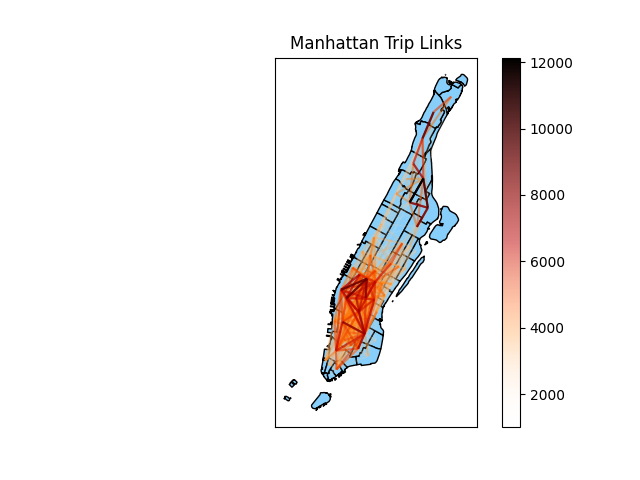
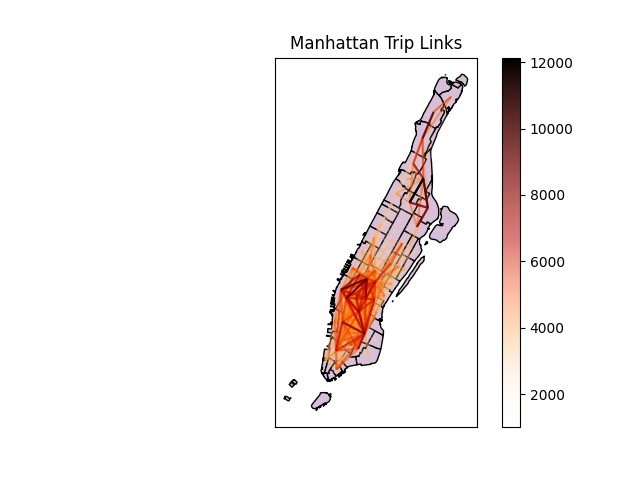
changed to a slightly better color

diff --git a/map_explore.py b/map_explore.py
@@ -153,7 +153,7 @@ def get_travel_link_plot(title, fname, regions = None, overlay_chargers = True):
     my_cmap = ListedColormap(my_cmap)
     
     fig, ax = plt.subplots()
-    df_cp.plot(ax = ax, edgecolor = "black", color = "lightskyblue")
+    df_cp.plot(ax = ax, edgecolor = "black", color = "thistle")
     links = df_triplinksplot.plot(ax = ax, cmap = my_cmap, column = "TripCounts", legend = True)
     
 #    cb = ax.get_figure().get_axes()[0]
